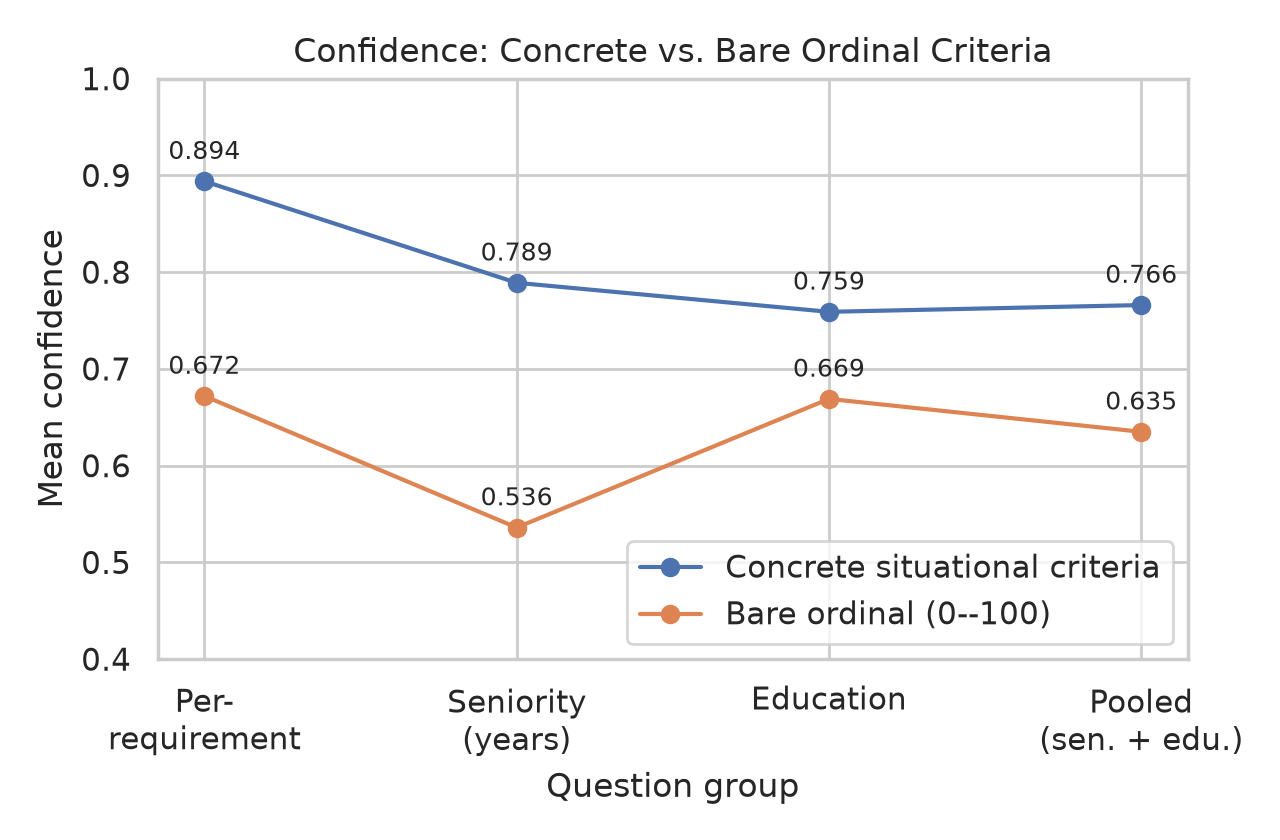
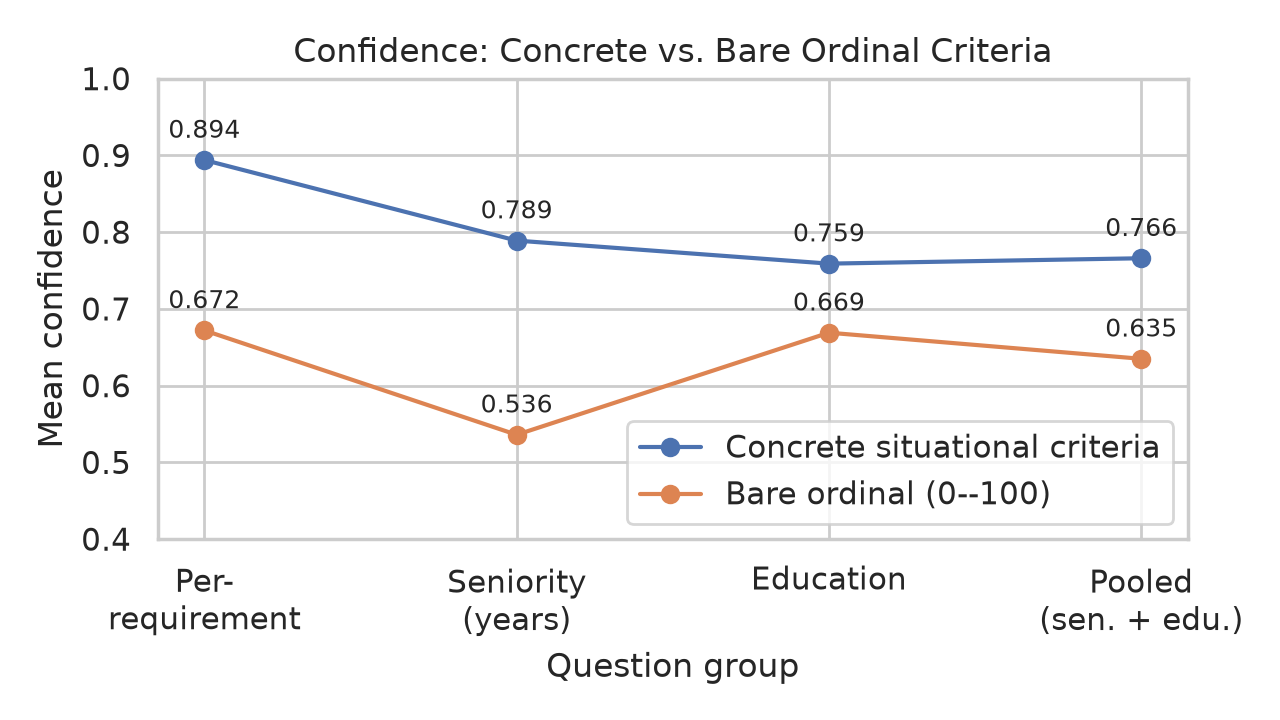
docs: shorten Figure 2 (score ablation chart) vertically

diff --git a/docs/generate_paper_figures.py b/docs/generate_paper_figures.py
@@ -26,7 +26,7 @@ def score_ablation_line_chart(filename: str = "score_ablation_chart.png"):
     concrete = [0.894, 0.789, 0.759, 0.766]
     ordinal = [0.672, 0.536, 0.669, 0.635]
 
-    fig, ax = plt.subplots(figsize=(6.4, 4.2))
+    fig, ax = plt.subplots(figsize=(6.4, 3.6))
     fig.patch.set_facecolor("white")
     ax.set_facecolor("white")
     ax.plot(groups, concrete, marker="o", label="Concrete situational criteria")
